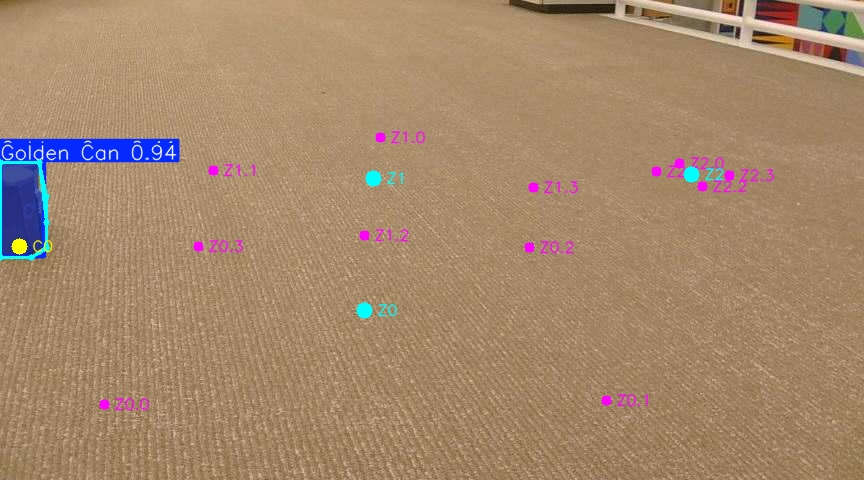
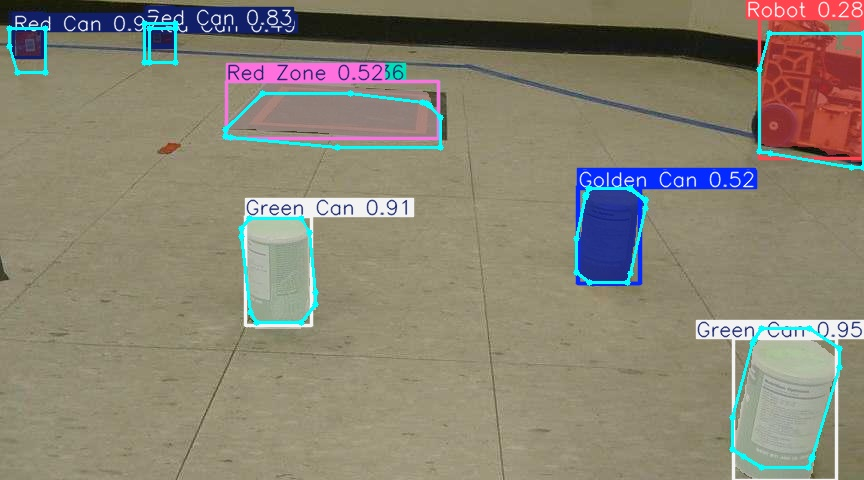
cahnges

diff --git a/RobotHandler.py b/RobotHandler.py
@@ -1,5 +1,6 @@
 import time
 import math
+from matplotlib.pyplot import cla
 import numpy as np
 from enum import Enum, auto
 from typing import Tuple, List, Optional
@@ -16,7 +17,7 @@ from vision.mask_utils import maskToConvexHull, yoloMaskToBinary
 from profiler import Profiler
 from thetaStar import ThetaStar
 from streamer import Streamer
-from config import FPS, CAN_DIAMETER, BASE_D, CLAW_OFFSET, PICKED_RECT, ROBOT_DIAMETER, SCOOPER_LENGTH, TEMP_STACK_OFFSET
+from config import FPS, CAN_DIAMETER, BASE_D, CLAW_OFFSET, PICKED_RECT, ROBOT_DIAMETER, SCOOPER_LENGTH, TEMP_STACK_OFFSET, APPROACH_OFFSET
 from colors import GREEN_CAN, GREEN_ZONE, GREEN_ZONE_OPP, RED_CAN, RED_ZONE, RED_ZONE_OPP, GOLDEN_CAN, GOLDEN_ZONE, GOLDEN_ZONE_OPP, ZONE_CLASS_NAMES, canNamesToNumbers
 
 
@@ -144,21 +145,21 @@ class RobotHandler():
         self.updateCanDetections()
 
         # TESTING PURPOSES
-        self.zones[GREEN_ZONE] = np.array([[918.62, 288.33],
-                                           [922.48, -271.63],
-                                           [1391.22, -262.14],
-                                           [1382.95, 269.04]])
-        self.zone_confidences[GREEN_ZONE] = 2
-        self.zones[RED_ZONE] = np.array([[2071.79, -26.68],
-                                         [1791.50, 311.42],
-                                         [1438.28, 7.33],
-                                         [1710.01, -324.33]])
-        self.zone_confidences[RED_ZONE] = 2
-        self.zones[GOLDEN_ZONE] = np.array([[1896.03, -681.89],
-                                            [1832.41, -610.53],
-                                            [1732.2, -675.07],
-                                            [1811.42, -762.24]])
-        self.zone_confidences[GOLDEN_ZONE] = 2
+        # self.zones[GREEN_ZONE] = np.array([[918.62, 288.33],
+        #                                    [922.48, -271.63],
+        #                                    [1391.22, -262.14],
+        #                                    [1382.95, 269.04]])
+        # self.zone_confidences[GREEN_ZONE] = 2
+        # self.zones[RED_ZONE] = np.array([[2071.79, -26.68],
+        #                                  [1791.50, 311.42],
+        #                                  [1438.28, 7.33],
+        #                                  [1710.01, -324.33]])
+        # self.zone_confidences[RED_ZONE] = 2
+        # self.zones[GOLDEN_ZONE] = np.array([[1896.03, -681.89],
+        #                                     [1832.41, -610.53],
+        #                                     [1732.2, -675.07],
+        #                                     [1811.42, -762.24]])
+        # self.zone_confidences[GOLDEN_ZONE] = 2
 
         self.profiler.record("scanAndSetZones")
 
@@ -213,7 +214,7 @@ class RobotHandler():
             (self.result_bottom, self.frame_bottom, False)
         ]:
             locations, color_strings = getCans(result, frame, is_top)
-            print(locations)
+            # print(locations)
             colors = canNamesToNumbers(color_strings)
 
             # Transform to world coordinates
@@ -520,8 +521,8 @@ class RobotHandler():
             # else:  # GOLDEN_CAN
             #     self.targetZone = GOLDEN_ZONE
             #     zone_name = "GOLDEN"
-            self.targetZone = GREEN_ZONE
-            zone_name = "GREEN"
+            self.targetZone = RED_ZONE
+            zone_name = "RED"
             print(
                 f"State: {self.state.name} → PlaceInZone (target: {zone_name})")
             self.targetStackId = -1
@@ -928,7 +929,7 @@ class RobotHandler():
             return True
 
         # Check 2: Is point within rectangle in front of robot?
-        rect_length = CLAW_OFFSET + CAN_DIAMETER * 3 / 2
+        rect_length = APPROACH_OFFSET
         rect_width = CAN_DIAMETER
         in_rectangle = (
             0 <= local_x <= rect_length and
@@ -940,19 +941,16 @@ class RobotHandler():
     def send_waypoints_with_start(self, waypoints: List[Tuple[float, float]]):
         x, y, _ = unpackPose(self.robot_pose)
         command_args = [x, y]
+        print("adding waypoints")
         for x, y in waypoints:
+            print(x, y)
             command_args.append(x)
             command_args.append(y)
         self.robot_commander.override_waypoints(command_args)
 
     def thetaStarAndSend(self, x: float, y: float):
         # temporary while thetastar doesn't work
-        # dx, dy = world_to_relative((x, y), self.robot_pose)
-        # gx, gy = relative_to_world((max(dx - 80, 0), dy), self.robot_pose)
-        # self.robot_commander.override_world_xy(gx, gy)
-        # print(f"→ override_world_xy({x:.0f}, {y:.0f})")
-        # self.robot_commander.override_world_xy(x, y)
-        gx, gy = x, y
+        gx, gy = self.getWorldClawOffsetPosition((x, y))
         robot_x, robot_y, theta = unpackPose(self.robot_pose)
         self.thetaStar.set_start(robot_x, robot_y)
         self.thetaStar.set_goal(gx, gy)
@@ -993,11 +991,11 @@ class RobotHandler():
         for zone_id, zone in enumerate(self.zones):
             if zone is not None:
                 color = zone_colors.get(zone_id, "white")
-                # Draw 4 lines connecting the vertices in a closed loop
-                for i in range(4):
+                # Draw lines lines connecting the vertices in a closed loop
+                for i in range(len(zone)):
                     x1, y1 = zone[i]
-                    x2, y2 = zone[(i + 1) %
-                                  4]  # Wrap around to close the polygon
+                    # Wrap around to close the polygon
+                    x2, y2 = zone[(i + 1) % len(zone)]
                     lines.append((x1 * scaling, y1 * scaling,
                                  x2 * scaling, y2 * scaling, color))
 
@@ -1057,6 +1055,12 @@ class RobotHandler():
             self.robot_pose.theta()]
 
         return result
+
+    def getWorldClawOffsetPosition(self, point: Tuple[float, float]):
+        dx, dy = world_to_relative(point, self.robot_pose)
+        gx, gy = relative_to_world(
+            (max(dx - APPROACH_OFFSET + 10, 0), dy), self.robot_pose)
+        return gx, gy
 
 
 def getDistance(point1, point2):

diff --git a/main_comp.py b/main_comp.py
@@ -30,8 +30,11 @@ def main():
         help=f"Coordinate port (default: {config.COMMAND_PORT})")
     parser.add_argument("--no-display", action="store_true",
                         help="Disable video display")
-    parser.add_argument("--picture-delay", type=float, default=None,
-                        help="Delay in seconds between saving pictures (default: don't save)")
+    parser.add_argument(
+        "--picture-delay",
+        type=float,
+        default=None,
+        help="Delay in seconds between saving pictures (default: don't save)")
     args = parser.parse_args()
 
     window_name_top = "Top Camera"
@@ -61,6 +64,11 @@ def main():
         main_profiler.start_frame()
         robotHandler.handleFrame(frame_info)
         main_profiler.record("robotHandler")
+
+        # Only save frame if frame_saver was initialized
+        if frame_saver is not None:
+            frame_saver.saveFrame(frame_info)
+            main_profiler.record("saveFrame")
 
         # Overlay YOLO segmentation results on frames first
         if robotHandler.result_top is not None:
@@ -147,7 +155,8 @@ def main():
         for zone_idx, zone in enumerate(robotHandler.zones):
             if zone is not None:
                 # Get zone color
-                color = zone_colors.get(zone_idx, (255, 255, 255))  # White default
+                color = zone_colors.get(
+                    zone_idx, (255, 255, 255))  # White default
 
                 # Reshape zone to (N, 2)
                 if zone.ndim == 3:
@@ -158,24 +167,40 @@ def main():
                 # Draw polygon on top camera
                 polygon_points_top = []
                 for corner in corners:
-                    pixel = world_to_pixel((float(corner[0]), float(corner[1])), H_TOP)
+                    pixel = world_to_pixel(
+                        (float(
+                            corner[0]), float(
+                            corner[1])), H_TOP)
                     if pixel is not None:
                         polygon_points_top.append(pixel)
 
                 if len(polygon_points_top) >= 3:
                     pts = np.array(polygon_points_top, dtype=np.int32)
-                    cv2.polylines(frame_info.frame_top, [pts], isClosed=True, color=color, thickness=2)
+                    cv2.polylines(
+                        frame_info.frame_top,
+                        [pts],
+                        isClosed=True,
+                        color=color,
+                        thickness=2)
 
                 # Draw polygon on bottom camera
                 polygon_points_bottom = []
                 for corner in corners:
-                    pixel = world_to_pixel((float(corner[0]), float(corner[1])), H_BOTTOM)
+                    pixel = world_to_pixel(
+                        (float(
+                            corner[0]), float(
+                            corner[1])), H_BOTTOM)
                     if pixel is not None:
                         polygon_points_bottom.append(pixel)
 
                 if len(polygon_points_bottom) >= 3:
                     pts = np.array(polygon_points_bottom, dtype=np.int32)
-                    cv2.polylines(frame_info.frame_bottom, [pts], isClosed=True, color=color, thickness=2)
+                    cv2.polylines(
+                        frame_info.frame_bottom,
+                        [pts],
+                        isClosed=True,
+                        color=color,
+                        thickness=2)
 
                 # Get zone center
                 center_x, center_y = getPolygonCenter(zone)
@@ -186,7 +211,9 @@ def main():
                 corners_relative = []
                 for corner in corners:
                     rel = world_to_relative(
-                        (float(corner[0]), float(corner[1])), robotHandler.robot_pose)
+                        (float(
+                            corner[0]), float(
+                            corner[1])), robotHandler.robot_pose)
                     corners_relative.append(rel)
 
                 # Visualize corners on top camera
@@ -234,11 +261,6 @@ def main():
                 )
 
         main_profiler.record("visualization")
-
-        # Only save frame if frame_saver was initialized
-        if frame_saver is not None:
-            frame_saver.saveFrame(frame_info)
-            main_profiler.record("saveFrame")
 
         main_profiler.end_frame()
 

diff --git a/vision/zone_utils.py b/vision/zone_utils.py
@@ -4,7 +4,7 @@ Zone detection and quadrilateral utilities.
 import cv2 as cv
 import numpy as np
 from shapely.geometry import Polygon
-from typing import Tuple
+from typing import Tuple, Optional
 
 from colors import GOLDEN_ZONE, ZONE_CLASS_NAMES
 from config import BIG_ZONE_SIDE_LENGTH, SMALL_ZONE_SIDE_LENGTH
@@ -26,11 +26,10 @@ def getZones(result, image, is_top=True, epsilon_factor=0.02):
         epsilon_factor: Polygon simplification factor (default: 0.02)
 
     Returns:
-        List of dicts with keys:
-        - 'polygon_xy': Zone polygon in world coordinates (mm), shape (N, 2)
-        - 'polygon_uv': Zone polygon in pixel coordinates, shape (N, 2)
-        - 'class_name': Zone class name (e.g., 'Green Zone')
-        - 'confidence': Detection confidence
+        Tuple of (zones, class_names, confidences):
+        - zones: List of numpy arrays, each with shape (N, 2) representing polygon vertices in world coordinates (mm)
+        - class_names: List of zone class names (e.g., 'Green Zone')
+        - confidences: List of detection confidence values
     """
     zones = []
     class_names = []
@@ -79,21 +78,25 @@ def getZones(result, image, is_top=True, epsilon_factor=0.02):
 
         poly_xy = np.array(poly_xy)
 
-        zones.append(poly_uv_simplified)
+        zones.append(poly_xy)
         class_names.append(class_name)
         confidences.append(confidence)
 
-        print(f"{class_name}: {len(poly_xy)} vertices (confidence: {confidence:.2f})")
+        # print(f"{class_name}: {len(poly_xy)} vertices (confidence: {confidence:.2f})")
 
     return zones, class_names, confidences
 
 
 def simplify_polygon(polygon, epsilon_factor=0.02):
-    """Simplify polygon using Douglas-Peucker algorithm."""
+    """Simplify polygon using Douglas-Peucker algorithm.
+
+    Returns numpy array with float64 dtype for JSON serialization compatibility.
+    """
     perimeter = cv.arcLength(polygon.astype(np.float32), closed=True)
     epsilon = epsilon_factor * perimeter
     approx = cv.approxPolyDP(polygon.astype(np.float32), epsilon, closed=True)
-    return approx.reshape(-1, 2)
+    result = approx.reshape(-1, 2)
+    return result.astype(np.float64)
 
 
 def getPolygonCenter(polygon) -> Tuple[float, float]:
@@ -215,18 +218,22 @@ def annotate_poly(image, polygon, color=(0, 0, 255)):
     Args:
         image: Image to annotate (numpy array)
               Shape: (H, W, 3) for BGR color image
-        polygon: Polygon contour (N, 1, 2) numpy array
+        polygon: Polygon contour as numpy array, shape (N, 2) or (N, 1, 2)
         color: Color for polygon (BGR tuple), default red (0, 0, 255)
 
     Returns:
         Annotated image
     """
+    # Reshape to (N, 1, 2) for drawContours
+    polygon_reshaped = polygon.reshape(-1, 1, 2).astype(np.int32) if polygon.ndim == 2 else polygon.astype(np.int32)
+
     # Draw the polygon
-    cv.drawContours(image, [polygon], 0, color, 1)
+    cv.drawContours(image, [polygon_reshaped], 0, color, 1)
 
     # Draw corner points
-    for point in polygon:
-        cv.circle(image, tuple(point[0]), 5, color, -1)
+    points = polygon.reshape(-1, 2)
+    for point in points:
+        cv.circle(image, tuple(point.astype(np.int32)), 5, color, -1)
 
     return image
 
@@ -299,7 +306,7 @@ def visualize_xy_locations(
     color: tuple = (0, 255, 0),
     radius: int = 5,
     thickness: int = -1,
-    labels: list = None
+    labels: Optional[list] = None
 ) -> np.ndarray:
     """
     Visualize world coordinate (x, y) locations on an image by projecting them to pixels.

diff --git a/config.py b/config.py
@@ -11,6 +11,7 @@ ROBOT_DIAMETER = 250  # different from base_d, this is whole robot radius
 SCOOPER_LENGTH = 254
 CLAW_OFFSET = 47
 DS_TO_CLAW = 20
+APPROACH_OFFSET = 150
 
 TEMP_STACK_OFFSET = 200
 BACKING_TICKS = 500
